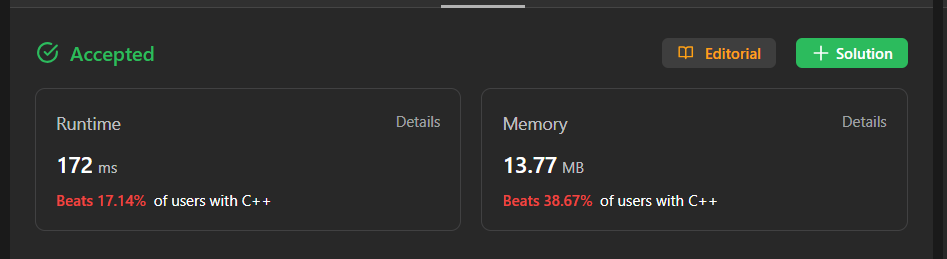
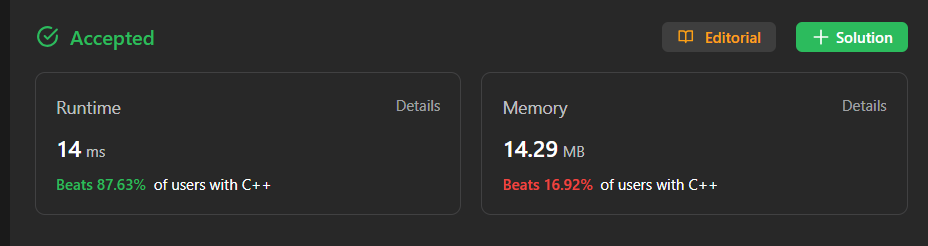
optimized solution

diff --git a/LeetCode/Merge k Sorted Lists/C++/solution.cpp b/LeetCode/Merge k Sorted Lists/C++/solution.cpp
@@ -3,42 +3,23 @@
 class Solution
 {
 public:
-    ListNode *mergeTwoLists(ListNode *l1, ListNode *l2)
-    {
-        if (l1 == NULL)
-        {
-            return l2;
-        }
-        if (l2 == NULL)
-        {
-            return l1;
-        }
-        if (l1->val <= l2->val)
-        {
-            ListNode *head = l1;
-            head->next = mergeTwoLists(l1->next, l2);
-            return head;
-        }
-        else
-        {
-            ListNode *head = l2;
-            head->next = mergeTwoLists(l1, l2->next);
-            return head;
-        }
-        return NULL;
-    }
-
     ListNode *mergeKLists(vector<ListNode *> &lists)
     {
-        if (lists.size() == 0)
+        vector<int> v;
+        for (int i = 0; i < lists.size(); i++)
         {
-            return NULL;
+            while (lists[i])
+            {
+                v.push_back(lists[i]->val);
+                lists[i] = lists[i]->next;
+            }
         }
-        ListNode *head = lists[0];
-        for (int i = 1; i < lists.size(); i++)
+        sort(rbegin(v), rend(v));
+        ListNode *ans = nullptr;
+        for (int i = 0; i < v.size(); i++)
         {
-            head = mergeTwoLists(head, lists[i]);
+            ans = new ListNode(v[i], ans);
         }
-        return head;
+        return ans;
     }
 };
